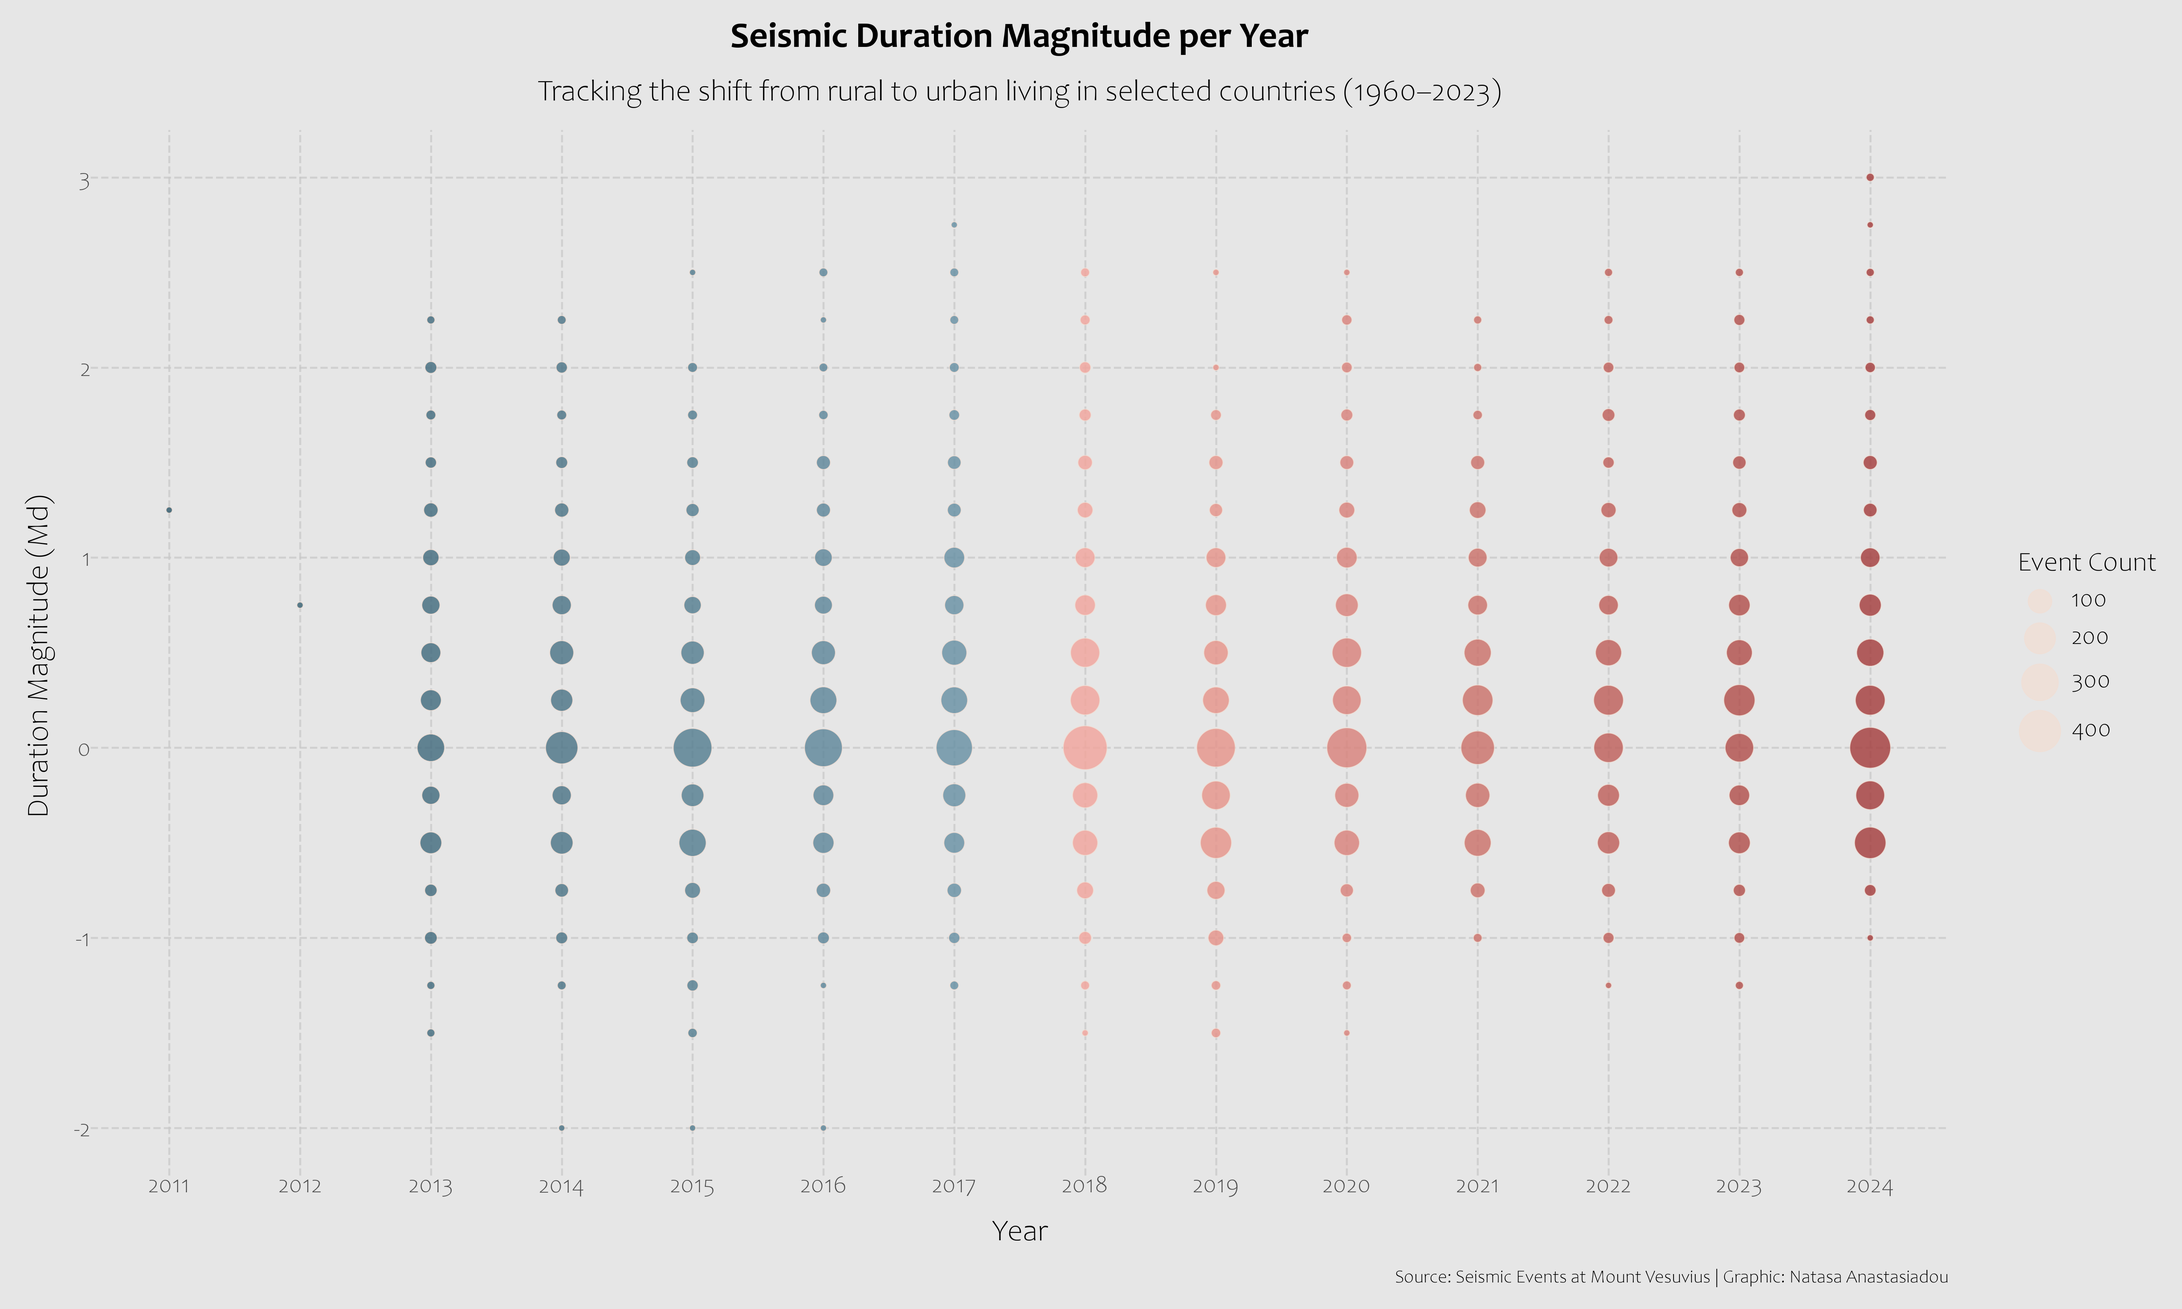
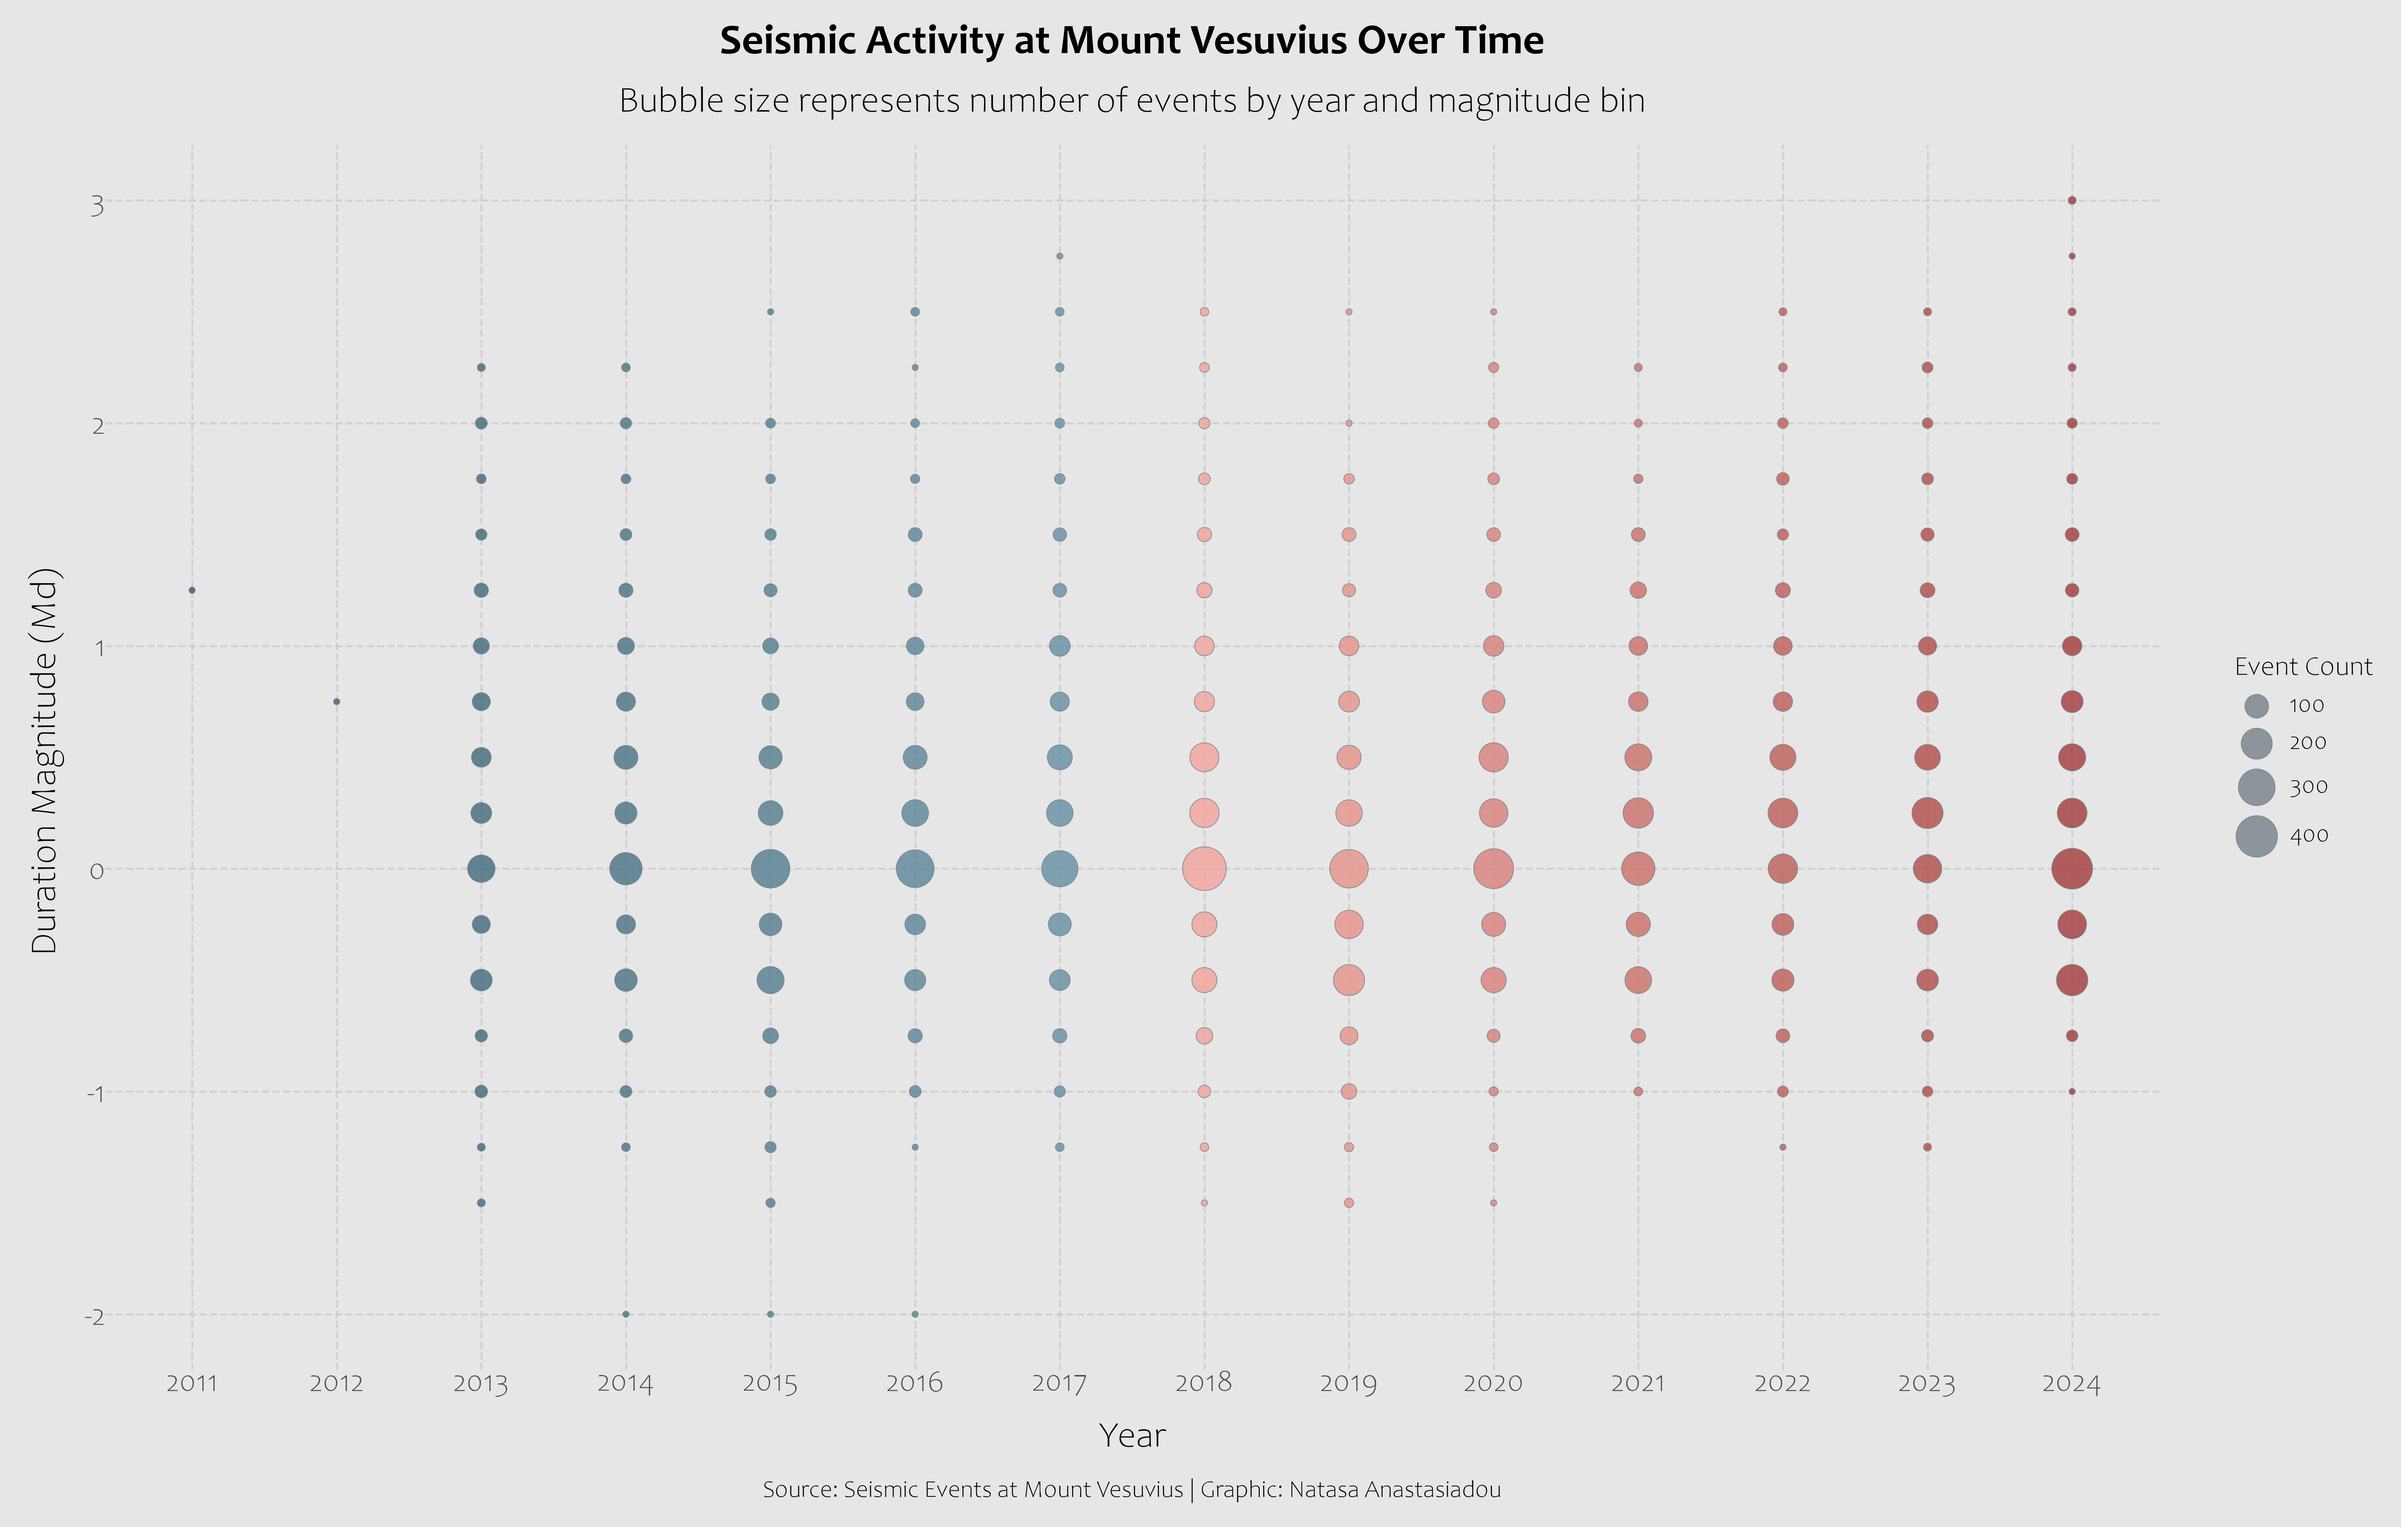
p

diff --git a/R/2025/2025-05-13/2025-05-13.py b/R/2025/2025-05-13/2025-05-13.py
@@ -17,7 +17,6 @@ df['year'] = df['year'].astype(str)
 
 df['md_bin'] = (df['duration_magnitude_md'] / 0.25).round() * 0.25
 
-
 agg_df = (
     df.groupby(['year', 'md_bin'])
     .size()
@@ -35,7 +34,7 @@ plot_bin = (
         aes(x = 'factor(year)', y = 'md_bin', size = 'count', fill = 'year')
     ) +
 
-    geom_point(alpha = .8, shape = 'o', color = '#f1dfd5', stroke = .15) +
+    geom_point(alpha = .8, shape = 'o', color = '#768188', stroke = .15) +
 
     scale_size_continuous(
         range = (1, 8)
@@ -46,8 +45,8 @@ plot_bin = (
     guides(fill = False) +
 
     labs(
-        title = "Seismic Duration Magnitude per Year",
-        subtitle = "Tracking the shift from rural to urban living in selected countries (1960–2023)",
+        title = "Seismic Activity at Mount Vesuvius Over Time",
+        subtitle = "Bubble size represents number of events by year and magnitude bin",
         caption = "Source: Seismic Events at Mount Vesuvius | Graphic: Natasa Anastasiadou",
         x = 'Year',
         y = 'Duration Magnitude (Md)',
@@ -58,13 +57,13 @@ plot_bin = (
 
     theme(
 
-        axis_text_x=element_text(hjust = 0.5, size = 8),
-        axis_text_y=element_text(size = 8),
-        axis_title=element_text(size = 10),
+        axis_text_x = element_text(hjust = 0.5, size = 10),
+        axis_text_y = element_text(size = 10),
+        axis_title = element_text(size = 12),
 
-        plot_title = element_text(size = 12, weight = 'bold', ha = 'center'),
-        plot_subtitle = element_text(size = 10, ha = 'center'),
-        plot_caption = element_text(size = 6, ha = 'right'),
+        plot_title = element_text(size = 14, weight = 'bold', ha = 'center'),
+        plot_subtitle = element_text(size = 12, ha = 'center'),
+        plot_caption = element_text(size = 8, hjust = .5, ha = 'right'),
 
         panel_grid_major=element_line(color = '#c9c9c9', alpha = 0.75, size = 0.65, linetype = "dashed"),
         panel_grid_minor = element_blank(),
@@ -84,4 +83,4 @@ plot_bin = (
 plot_bin
 
 #  Save the plot with custom size and resolution
-ggsave(plot_bin, "plot.png", width = 10, height = 6, dpi = 600)
+ggsave(plot_bin, "plot.png", width = 11, height = 7, dpi = 600)
